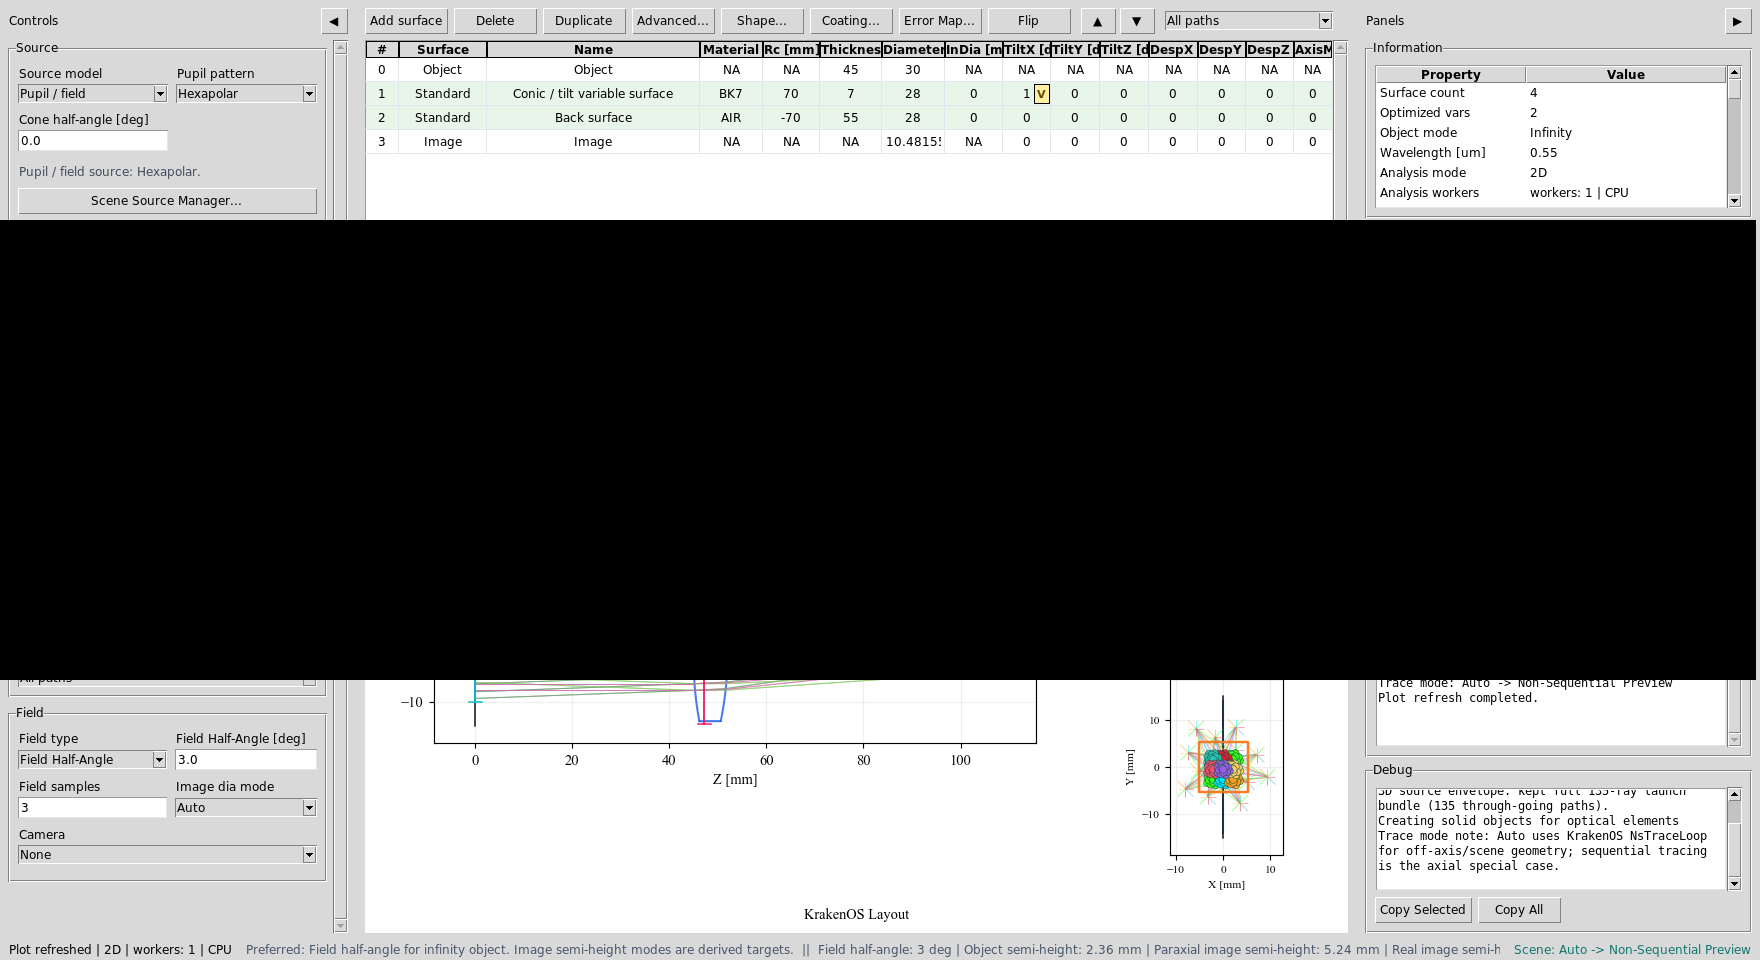
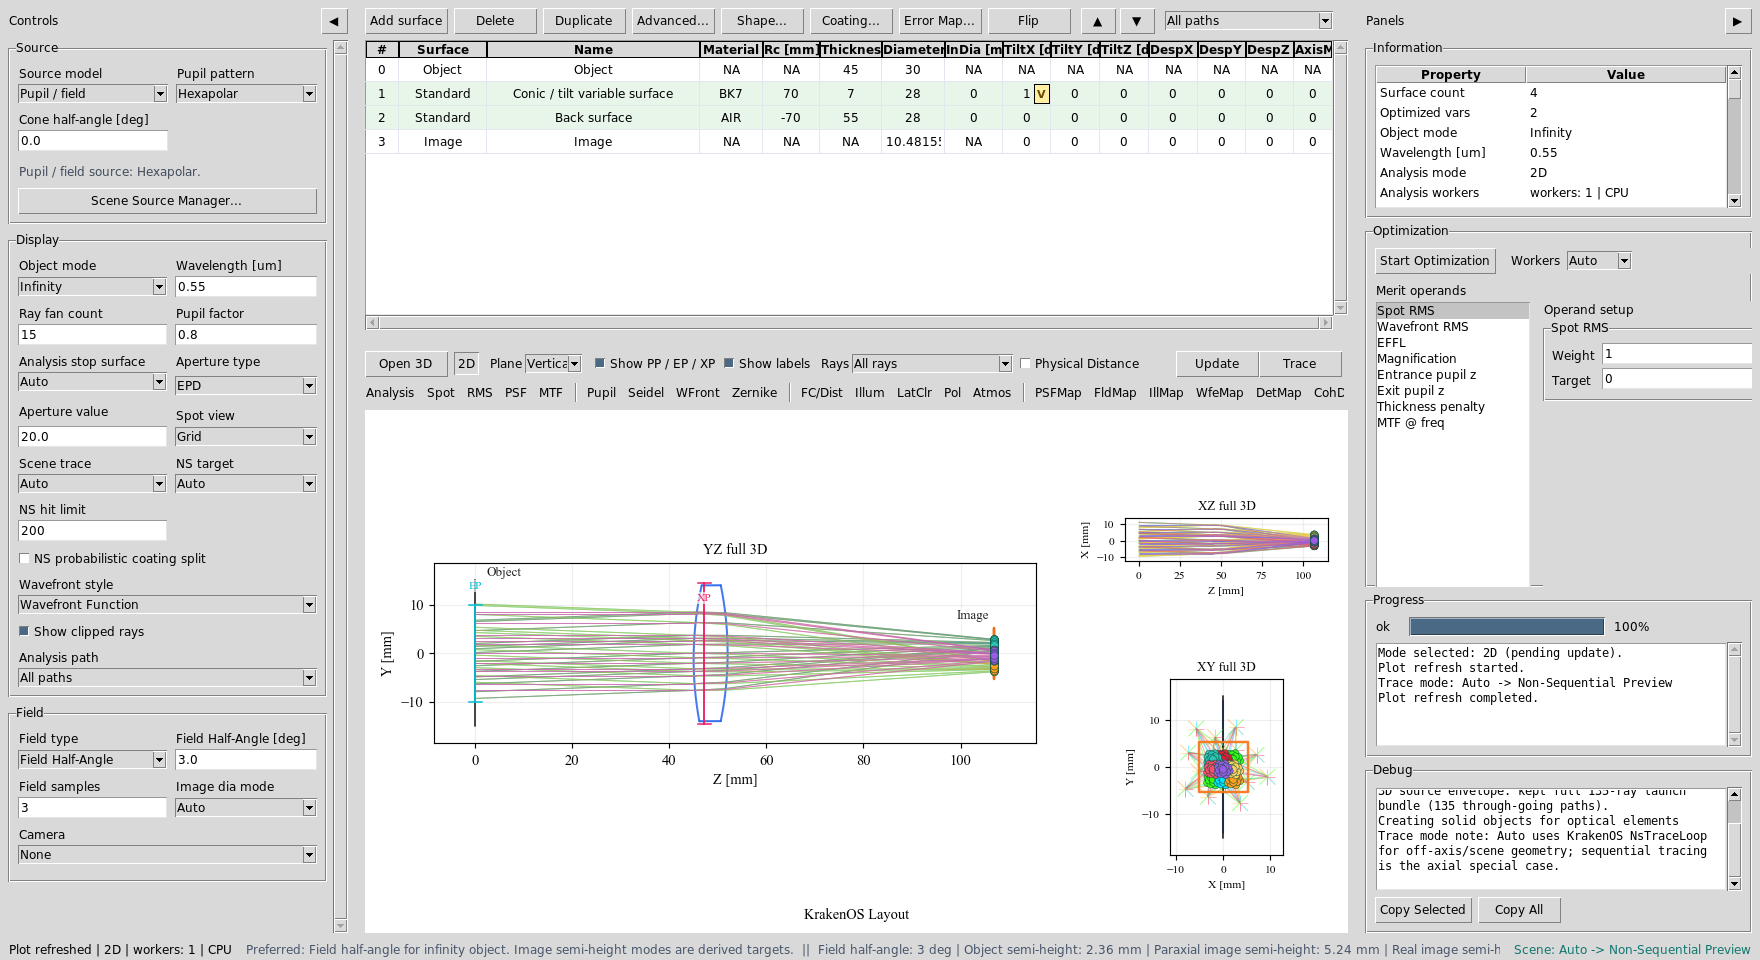
Fix report screenshot captures

diff --git a/KrakenOS/UI/capture_tolerance_monte_carlo_case_study_screenshots.py b/KrakenOS/UI/capture_tolerance_monte_carlo_case_study_screenshots.py
@@ -153,9 +153,18 @@ def _capture_window_image(widget) -> Image.Image:
     return image.convert("RGB")
 
 
+def _capture_widget_bounds_image(widget) -> Image.Image:
+    widget.update_idletasks()
+    x0 = int(widget.winfo_rootx())
+    y0 = int(widget.winfo_rooty())
+    x1 = x0 + int(widget.winfo_width())
+    y1 = y0 + int(widget.winfo_height())
+    return ImageGrab.grab(bbox=(x0, y0, x1, y1)).convert("RGB")
+
+
 def _save_window(app: KrakenLayoutEditor, output_dir: Path, filename: str) -> Path:
     path = output_dir / filename
-    _capture_window_image(app).save(path, optimize=True)
+    _capture_widget_bounds_image(app).save(path, optimize=True)
     return path
 
 
@@ -192,7 +201,7 @@ def _save_report_window(app: KrakenLayoutEditor, output_dir: Path, filename: str
     time.sleep(0.35)
     window.update()
     path = output_dir / filename
-    _capture_window_image(window).save(path, optimize=True)
+    _capture_widget_bounds_image(window).save(path, optimize=True)
     window.destroy()
     app.update_idletasks()
     app.update()

diff --git a/KrakenOS/UI/capture_multi_source_case_study_screenshots.py b/KrakenOS/UI/capture_multi_source_case_study_screenshots.py
@@ -132,6 +132,15 @@ def _capture_window_image(widget) -> Image.Image:
     return image.convert("RGB")
 
 
+def _capture_widget_bounds_image(widget) -> Image.Image:
+    widget.update_idletasks()
+    x0 = int(widget.winfo_rootx())
+    y0 = int(widget.winfo_rooty())
+    x1 = x0 + int(widget.winfo_width())
+    y1 = y0 + int(widget.winfo_height())
+    return ImageGrab.grab(bbox=(x0, y0, x1, y1)).convert("RGB")
+
+
 def _save_window(app: KrakenLayoutEditor, output_dir: Path, filename: str) -> Path:
     path = output_dir / filename
     _capture_window_image(app).save(path, optimize=True)
@@ -188,7 +197,7 @@ def _save_source_report(app: KrakenLayoutEditor, output_dir: Path, filename: str
     time.sleep(0.35)
     window.update()
     path = output_dir / filename
-    _capture_window_image(window).save(path, optimize=True)
+    _capture_widget_bounds_image(window).save(path, optimize=True)
     return path
 
 

diff --git a/KrakenOS/UI/capture_right_angle_beam_splitter_case_study_screenshots.py b/KrakenOS/UI/capture_right_angle_beam_splitter_case_study_screenshots.py
@@ -124,6 +124,15 @@ def _capture_window_image(widget) -> Image.Image:
     return image.convert("RGB")
 
 
+def _capture_widget_bounds_image(widget) -> Image.Image:
+    widget.update_idletasks()
+    x0 = int(widget.winfo_rootx())
+    y0 = int(widget.winfo_rooty())
+    x1 = x0 + int(widget.winfo_width())
+    y1 = y0 + int(widget.winfo_height())
+    return ImageGrab.grab(bbox=(x0, y0, x1, y1)).convert("RGB")
+
+
 def _save_window(app: KrakenLayoutEditor, output_dir: Path, filename: str) -> Path:
     path = output_dir / filename
     _capture_window_image(app).save(path, optimize=True)
@@ -158,7 +167,7 @@ def _save_source_report(app: KrakenLayoutEditor, output_dir: Path, filename: str
     time.sleep(0.35)
     window.update()
     path = output_dir / filename
-    _capture_window_image(window).save(path, optimize=True)
+    _capture_widget_bounds_image(window).save(path, optimize=True)
     return path
 
 

diff --git a/KrakenOS/UI/capture_zemax_led_diffuse_case_study_screenshots.py b/KrakenOS/UI/capture_zemax_led_diffuse_case_study_screenshots.py
@@ -124,6 +124,15 @@ def _capture_window_image(widget) -> Image.Image:
     return image.convert("RGB")
 
 
+def _capture_widget_bounds_image(widget) -> Image.Image:
+    widget.update_idletasks()
+    x0 = int(widget.winfo_rootx())
+    y0 = int(widget.winfo_rooty())
+    x1 = x0 + int(widget.winfo_width())
+    y1 = y0 + int(widget.winfo_height())
+    return ImageGrab.grab(bbox=(x0, y0, x1, y1)).convert("RGB")
+
+
 def _save_window(app: KrakenLayoutEditor, output_dir: Path, filename: str) -> Path:
     path = output_dir / filename
     _capture_window_image(app).save(path, optimize=True)
@@ -158,7 +167,7 @@ def _save_source_report(app: KrakenLayoutEditor, output_dir: Path, filename: str
     time.sleep(0.35)
     window.update()
     path = output_dir / filename
-    _capture_window_image(window).save(path, optimize=True)
+    _capture_widget_bounds_image(window).save(path, optimize=True)
     return path
 
 

diff --git a/KrakenOS/UI/services/analysis_reports.py b/KrakenOS/UI/services/analysis_reports.py
@@ -1422,6 +1422,13 @@ class AnalysisReportsMixin:
 
     def _source_illumination_target_index(self) -> int | None:
         target_var = self.__dict__.get("_source_illumination_target_var")
+        if target_var is None:
+            dialog = self.__dict__.get("_main_source_illumination_report_dialog_instance")
+            target_var = (
+                object.__getattribute__(dialog, "__dict__").get("_source_illumination_target_var")
+                if dialog is not None
+                else None
+            )
         value = (
             str(target_var.get()).strip()
             if target_var is not None
